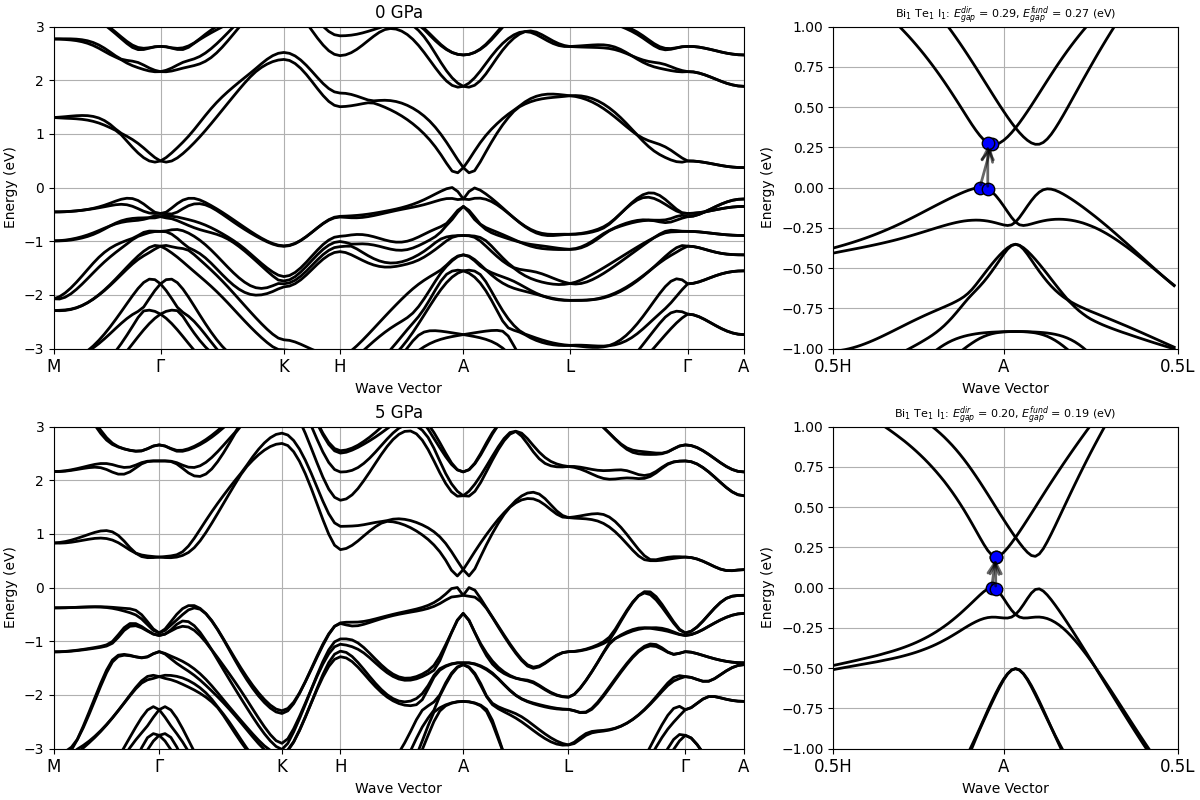
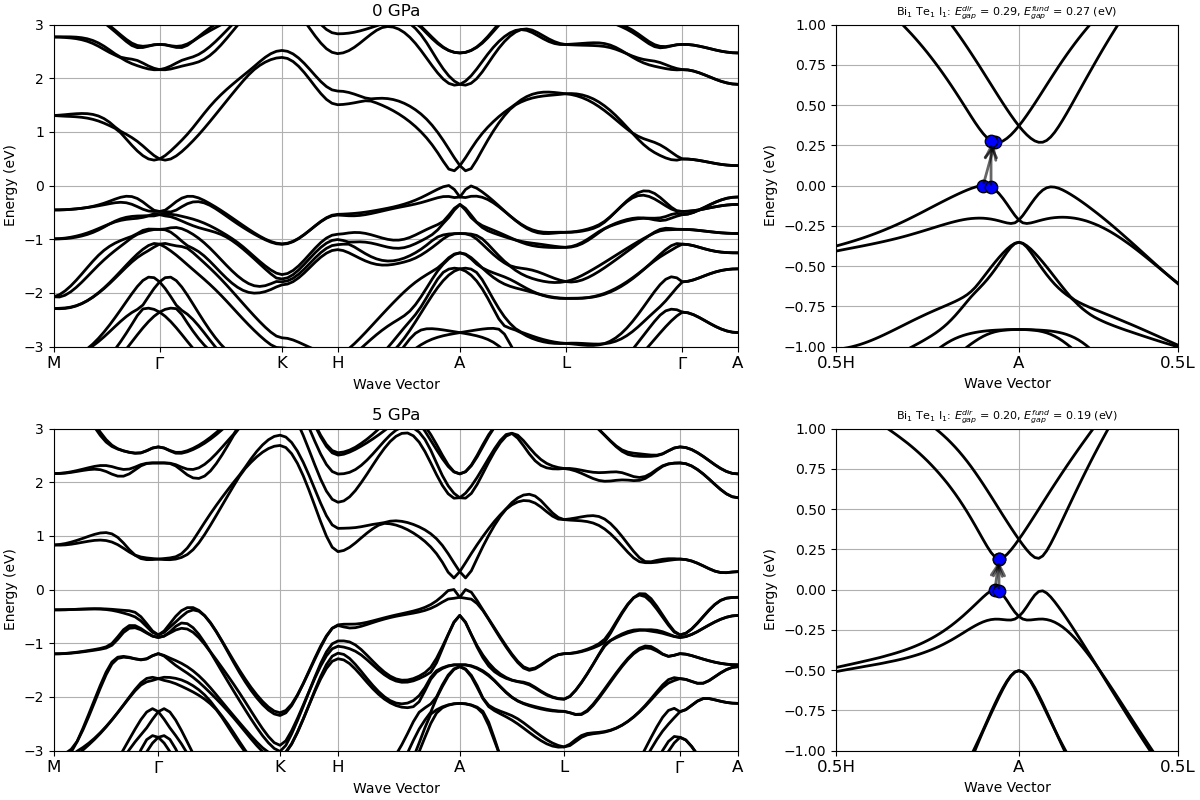
Latest tweak to the z2pack tutorial.
Former-commit-id: 1cda9745549a05b20c59a354b0e6b9f875ddaf5e

diff --git a/tests/tutoplugs/Input/tz2_2_relative_projection.py b/tests/tutoplugs/Input/tz2_2_relative_projection.py
@@ -52,7 +52,7 @@ for j in range(len(flist)):
     # plot electronic bands
     data = abiopen(flist[j])
     data.ebands.set_fermie_to_vbm()
-    data.ebands.plot(with_gaps=False, ylims=(-0.4, 0.8), ax=ax[j], show=False, fontsize=16)
+    data.ebands.plot(with_gaps=False, ylims=(-0.4, 0.8), ax=ax[j], show=False, fontsize=16, zorder=1)
 
 
     # compute Bi-p projections
@@ -64,7 +64,7 @@ for j in range(len(flist)):
 
     ax[j].set_title(title[j])
 
-    ax[j].set_xticks([0, int(0.5*(data.nkpt-1)), data.nkpt])
+    ax[j].set_xticks([0, 17, data.nkpt-1])
     ax[j].set_xticklabels(['0.5H', 'A', '0.5L'], fontsize=12)
 
 divider = make_axes_locatable(ax[1])

diff --git a/tests/tutoplugs/Input/tz2_2_bandstructure.py b/tests/tutoplugs/Input/tz2_2_bandstructure.py
@@ -26,11 +26,10 @@ for j in range(2):
 
 ax['full5'].set_title('5 GPa')
 ax['full0'].set_title('0 GPa')
-ax['gap5'].set_xticks([0, int(0.5*(len(gap.kpoints)-1)), len(gap.kpoints)])
+ax['gap5'].set_xticks([0, 17, len(gap.kpoints)-1])
 ax['gap5'].set_xticklabels(['0.5H', 'A', '0.5L'])
-ax['gap0'].set_xticks([0, int(0.5*(len(gap.kpoints)-1)), len(gap.kpoints)])
+ax['gap0'].set_xticks([0, 17, len(gap.kpoints)-1])
 ax['gap0'].set_xticklabels(['0.5H', 'A', '0.5L'])
 
 plt.savefig('tz2_2_bandstructure.pdf')
 plt.show()
-

diff --git a/doc/tutorial/z2pack.md b/doc/tutorial/z2pack.md
@@ -1,5 +1,6 @@
 ---
 authors: O. Gingras, V. Brousseau-Couture
+acknowledgments: M. Hirsbrunner
 ---
 
 # Tutorial on the use of Z2Pack
@@ -50,7 +51,7 @@ which is based on the notion of Wannier orbitals.
 These are given by Fourier transforming the Bloch states
 $|\textbf{R}n\rangle = \frac{V}{(2\pi)^d} \int_{BZ} e^{-i\textbf{k} \cdot \textbf{R}} | \psi_{n, \textbf{k}} \rangle d\textbf{k}$ where $d$ is the dimensionality of the system and $V$ the unit cell volume.
 These orbitals can be changed by a Gauge transformation which affects their localization and position in real space.
-To compute topological invariants, hybrid Vannier orbitals are introduced as Fourier transforms performed only in one spatial direction, for example $|\textbf{R}_x, k_y, k_z; n \rangle = \frac{a_x}{2\pi} \int^{\pi/a_x}_{-\pi/ax} e^{-ik_xR_x} | \psi_{n \textbf{k}} \rangle$.
+To compute topological invariants, hybrid Wannier orbitals are introduced as Fourier transforms performed only in one spatial direction, for example $|\textbf{R}_x, k_y, k_z; n \rangle = \frac{a_x}{2\pi} \int^{\pi/a_x}_{-\pi/ax} e^{-ik_xR_x} | \psi_{n \textbf{k}} \rangle$.
 
 The average position of such orbital depend on the remaining reciprocal space varables:
 $\bar{x}_n(k_y, k_z) = \langle 0, k_y, k_z; n | \hat{x} | 0, k_y, k_z; n\rangle.$
@@ -60,11 +61,26 @@ This procedure of segmenting the surface is illustrated in [[cite:Gresch2018]] F
 
 The equivalence between hybrid Wannier charge centers and the Berry phase gives rise to a physical interpretation of the Chern number as a charge pumping process, where each cycle of $k_x$ moves the charge by $C$ unit cells.
 
-The Z2 invariant is defined as the Chern number mod 2 and Z2Pack needs two inputs: a description of the system and the surface on which the invariant should be calculated.
-In the interface with ABINIT, Z2Pack will start from a computed ground state and perform the Wannierization on lines in the Brillouin zone. 
-At the end it can sum the contribution to compute the Z2 invariant.
+For time-reversal invariant systems, the total Chern number is zero as 
+the Chern numbers of Kramers partners cancel each other.
+We will rather compute the Z2 invariant, which can only take values of 0 or 1.
+Z2Pack can handle this calculation in the following way.
+By fixing one reciprocal space coordinate at a time-reversal invariant value
+(i.e. $k_i=0$ or $k_i=0.5$ in reduced coordinates), we can define a surface in 
+reciprocal space which contains its own time-reversal image.
+Using the hybrid Wannier charge centers computed on this surface, we can
+then define a surface invariant $\Delta\in\{0,1\}$, which can be intuitively
+understood as the Chern number mod 2 of one subset of Kramers partners.
+More details about how Z2Pack handles this calculation will be provided later.
 
-Before we actually compute the Chern number, we will take a look at another indication of non-trivial topology: band inversion.
+To compute the surface invariant $\Delta$, Z2pack needs 2 inputs: a description
+of the system and the surface on which the invariant should be calculated.
+In the interface with ABINIT, Z2Pack will start from a computed ground state and 
+perform the Wannierization on lines in the Brillouin zone.
+At the end, it can sum mod 2 the surface invariants obtained on the two 
+time-reversal invariant surfaces to evaluate the Z2 invariant.
+
+Before we actually compute the Z2 invariant, we will take a look at another indication of non-trivial topology: band inversion.
 
 
 ## 2. Pressure dependent band inversion in BiTeI
@@ -108,22 +124,24 @@ The path of this band structure is first along a high-symmetry path in the $k_z=
 ($M$-$\Gamma$-$K$).
 Then is goes out of plane to the $k_z=\pi/c$ plane ($K$-$H$).
 It then goes in along the same path as in the $k_z=0$ plane, but translated to the $k_z=\pi/c$ one ($H$-$A$-$L$).
-By looking at the $K$-$H$ path, you can see that the dispersion out of plane is quite small.
 
-The most interesting thing that one can see from these band structures happen in the $k_z=\pi/c$ plane.
-Around the $A$ point at 0 GPa, the dispersion is essentially flat/parabolic, characteristic of bands that have a single character.
-At 5 GPa however, the band has a parabolic shape in the opposite direction around that point.
-This is indicative of a band inversion, where the character is exchanged between the two bands.
+At first glance, the two figures in the right column look very similar, as they are both gapped.
+The band gap energy is slightly smaller at 5 GPa compared to the 0 GPa value,
+which seems to indicate that the band gap of BiTeI closes with increasing pressure.
+However, if we compute the pressure dependence of the band gap energy between these two pressures,
+we will observe that the band gap decreases up to P\sim 2 GPa (and almost vanishes),
+then starts to \textit{increase} as pressure is further increased (see Figure 4 of [[cite:Brousseau-Couture2020]]).
+Knowing that a topological phase transition must be accompanied by a closing of the band gap,
+this behavior suggests that one of those pressures might have a non-trivial topology.
+If this is the case, the electronic bands in the non-trivial phase would display a band inversion.
 
-It can be understood as following: at 0 GPa, the band have pure character around that point.
-Increasing the pressure, the bands move towards the Fermi level and cross at some point.
-Because of spin-orbit coupling, a gap opens and we find band inversion which can lead to a topologically non-trival insulator.
-
-In order to illustrate this statement, we now plot the fatbands.
+Around the $A$ point, one can notice some band dispersions characteristic of band inversion.
+In order to check whether or not there is inversion of character between bands which are gap due to spin-orbit coupling,
+we plot the fatbands.
 One can use the fatbands plotting feature of abipy as used in the [Wannier90](/tutorial/wannier90) tutorial,
 but instead here we will use a more advanced script which plots the difference in character between
 the p orbitals of bismuth and of those of both the tellurium and iodine.
-This procedure makes more clear the band inversion and the script is the following: 
+This procedure makes more clear the band inversion and the script is the following:
 
 {% dialog tests/tutoplugs/Input/tz2_2_relative_projection.py %}
 
@@ -185,12 +203,23 @@ You will find the following figure:
 
 ![](z2pack_assets/tz2_3_hwcc_converged.png)
 
-In this figure, each point in $k_x$ corresponds to a calculated line.
-The empty circles denote the average positions of the Wannier charge centers for each band.
-The largest gap between to centers is denoted by a blue diamond.
-The surface invariant is computed as follow: between each line $k_x$, we count the number of Wannier charge centers
-between two blue diamond.
-This number is summed over $k_x$, and its parity at the end of the sum give the Z2 surface invariant.
+In this figure each open circle represents a hybrid Wannier charge center (HWCC).
+The left column is calculated in the $k_z=0$ plane and the right column in the $k_z=0.5$ plane.
+The HWCC form "bands", similar to the band structure of a dispersion relation,
+but the values are defined mod 1, so the y axis is periodic.
+In the continuum case, the parity of the number of times a horizontal line crosses the HWCCs constitutes
+a topological invariant of the $k_z=0$ and $0.5$ planes, which we denote by $\Delta$.
+If $\Delta$ differs between $k_z=0$ and $k_z=0.5$, the bulk $Z_2$ invariant is $\nu=1$.
+
+To calculate this invariant on a coarse k-mesh, we consider the points marking the middle
+of the largest gap at each $k_x$ value rather than a horizontal line.
+These points are marked by blue diamonds above.
+Whenever the location of the middle of the gap changes between two adjacent $k_x$ values,
+we count the number of HWCC that exist between the two gap centers and sum this number for all the crossings as $k_x$ goes from 0 to $pi/a_x$.
+If this value is even, $\Delta=0$, and if it is odd, $\Delta=1$.
+Performing this counting procedure for both $k_z$ planes produces $\Delta=0$ for each case
+besides $k_z=0.5$ with $P=5$ GPa, indicating that the 0 Gpa phase is trivial and the 5 GPa phase is topological.
+
 
 ## 4. Conclusion
 
